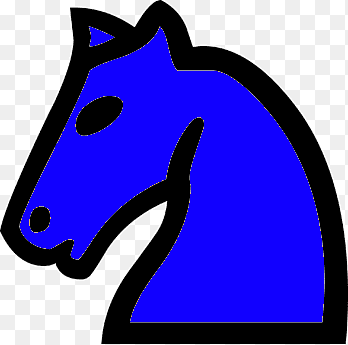
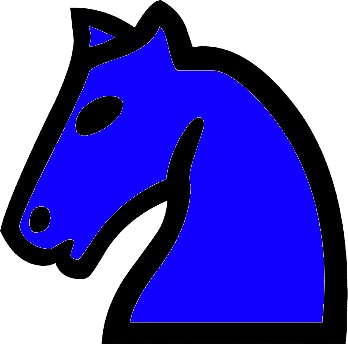
Added all pieces to the board and they can all move

diff --git a/ChessSpace/wwwroot/js/gameLobby.js b/ChessSpace/wwwroot/js/gameLobby.js
@@ -31,40 +31,44 @@ function sendMessage() {
     connection.invoke("SendMessage", msg, gamecode);
 }
 
-let selectedPawn = null;
-let selectedpawncell = null;
+let selectedPiece = null;
+let selectedpiececell = null;
 
 function movePawn(event) {
     const clickedButton = event.target;
     const clickedCell = clickedButton.parentNode;
-
-    if (selectedPawn === null) {
-        if (clickedButton.classList.contains('orangepawn') || clickedButton.classList.contains('bluepawn')) {
-            selectedPawn = clickedButton;
-            selectedpawncell = clickedCell;
+    const pieceClasses = [
+        'bluepawn', 'orangepawn', 'blueking', 'orangeking',
+        'bluequeen', 'orangequeen', 'bluerook', 'orangerook',
+        'blueknight', 'orangeknight', 'bluebishop', 'orangebishop'
+    ];
+    if (selectedPiece === null) {
+        if (pieceClasses.some(cls => clickedButton.classList.contains(cls))) {
+            selectedPiece = clickedButton;
+            selectedpiececell = clickedCell;
 
             clickedButton.style.border = '2px solid red';
             console.log('Pion geselecteerd:', clickedButton.id);
         }
     } else {
-        if (clickedCell && !(clickedButton.classList.contains('orangepawn') || clickedButton.classList.contains('bluepawn'))) {
+        if (clickedCell && !(pieceClasses.some(cls => clickedButton.classList.contains(cls)))) {
 
             clickedCell.innerHTML = '';
-            let temppawn = selectedPawn;
-            temppawn.style.border = '';
-            clickedCell.appendChild(temppawn);
-            selectedpawncell.innerHTML = `<button class="chessbutton" onclick="movePawn(event)"></button>`
+            let temppiece = selectedPiece;
+            temppiece.style.border = '';
+            clickedCell.appendChild(temppiece);
+            selectedpiececell.innerHTML = `<button class="chessbutton" onclick="movePawn(event)"></button>`
 
 
             
-            console.log('Pion verplaatst naar:', clickedCell.id);
+            console.log('Piece moved to:', clickedCell.id);
 
             let updatedBoardHtml = document.getElementById('chessboard').innerHTML;
 
             connection.invoke("MovePiece", updatedBoardHtml, gamecode);
 
-            selectedPawn = null;
-            selectedpawncell = null;
+            selectedPiece = null;
+            selectedpiececell = null;
         }
     }
 }

diff --git a/ChessSpace/wwwroot/css/site.css b/ChessSpace/wwwroot/css/site.css
@@ -111,9 +111,8 @@ red-button:hover {
     border-collapse: separate;
     width: 528px; /* Pas dit aan naar wens */
     height: 528px;
-    background-color: rgba(0, 0, 0, 0.58);
-    border: 2   0px solid #D1D1D1;
-    border-radius: 50px;
+    background-color: rgba(0, 0, 0, 0.65);
+    border-radius: 20px;
     box-shadow: 0 0 10px 18px rgba(0, 0, 0, 0.65);
 }
 
@@ -123,6 +122,7 @@ red-button:hover {
         aspect-ratio: 1/1; /* Zorgt ervoor dat cellen vierkant blijven */
         padding: 0;
         position: relative;
+        box-sizing: border-box;
     }
 
 .white {
@@ -161,6 +161,8 @@ red-button:hover {
     background-color: transparent;
     cursor: pointer;
     display: block;
+    border-radius: 12px;
+    box-sizing: border-box;
 }
 
 .messages-container {

diff --git a/ChessSpace/wwwroot/css/pieces.css b/ChessSpace/wwwroot/css/pieces.css
@@ -48,24 +48,26 @@
 
 .blueknight {
     background-image: url('../images/BlueKnight.png');
-    background-size: cover;
+    background-size: 42px;
     background-position: center;
+    background-repeat: no-repeat;
 }
 
 .orangeknight {
     background-image: url('../images/OrangeKnight.png');
-    background-size: cover;
+    background-size: 42px;
     background-position: center;
+    background-repeat: no-repeat;
 }
 
 .bluebishop {
     background-image: url('../images/BlueBishop.png');
-    background-size: cover;
+    background-size: 56px;
     background-position: center;
 }
 
 .orangebishop {
     background-image: url('../images/OrangeBishop.png');
-    background-size: cover;
+    background-size: 56px;
     background-position: center;
 }
